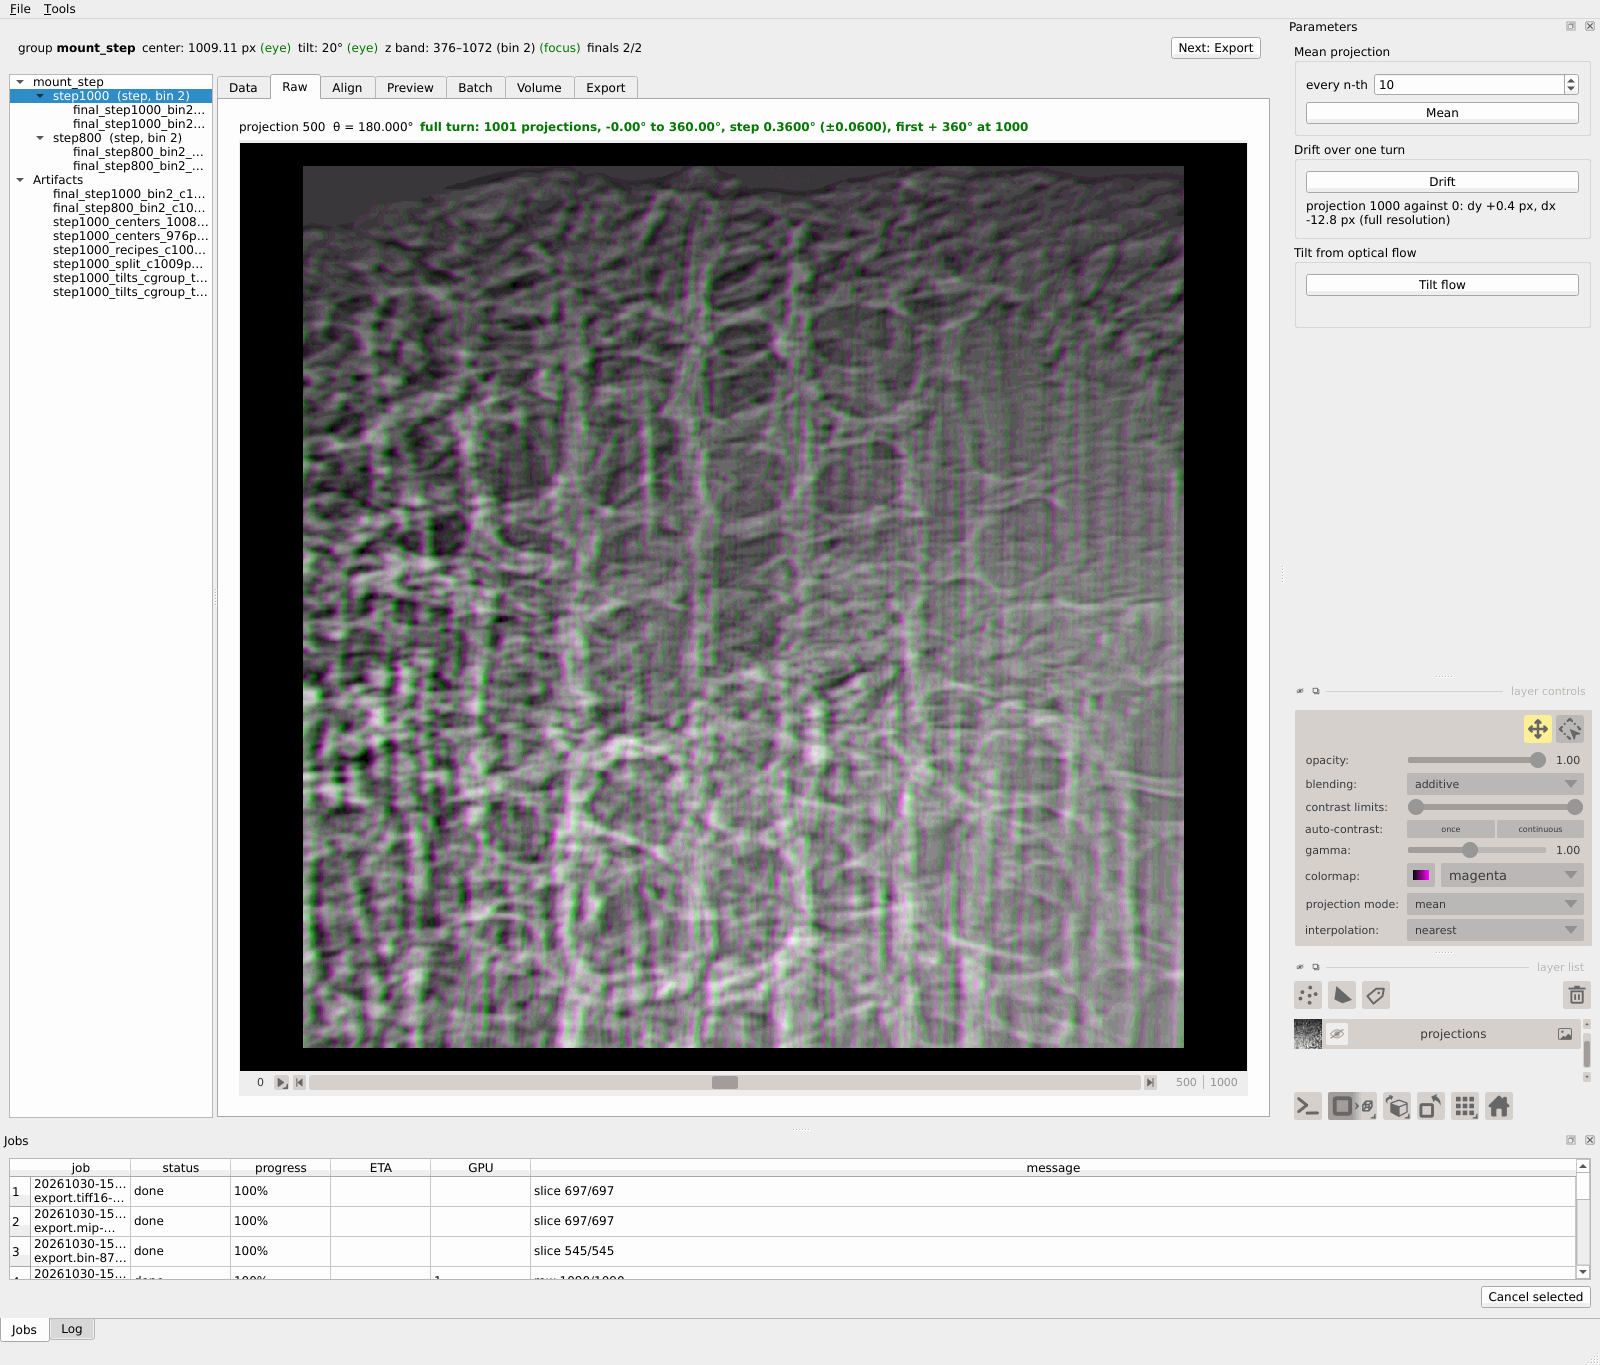
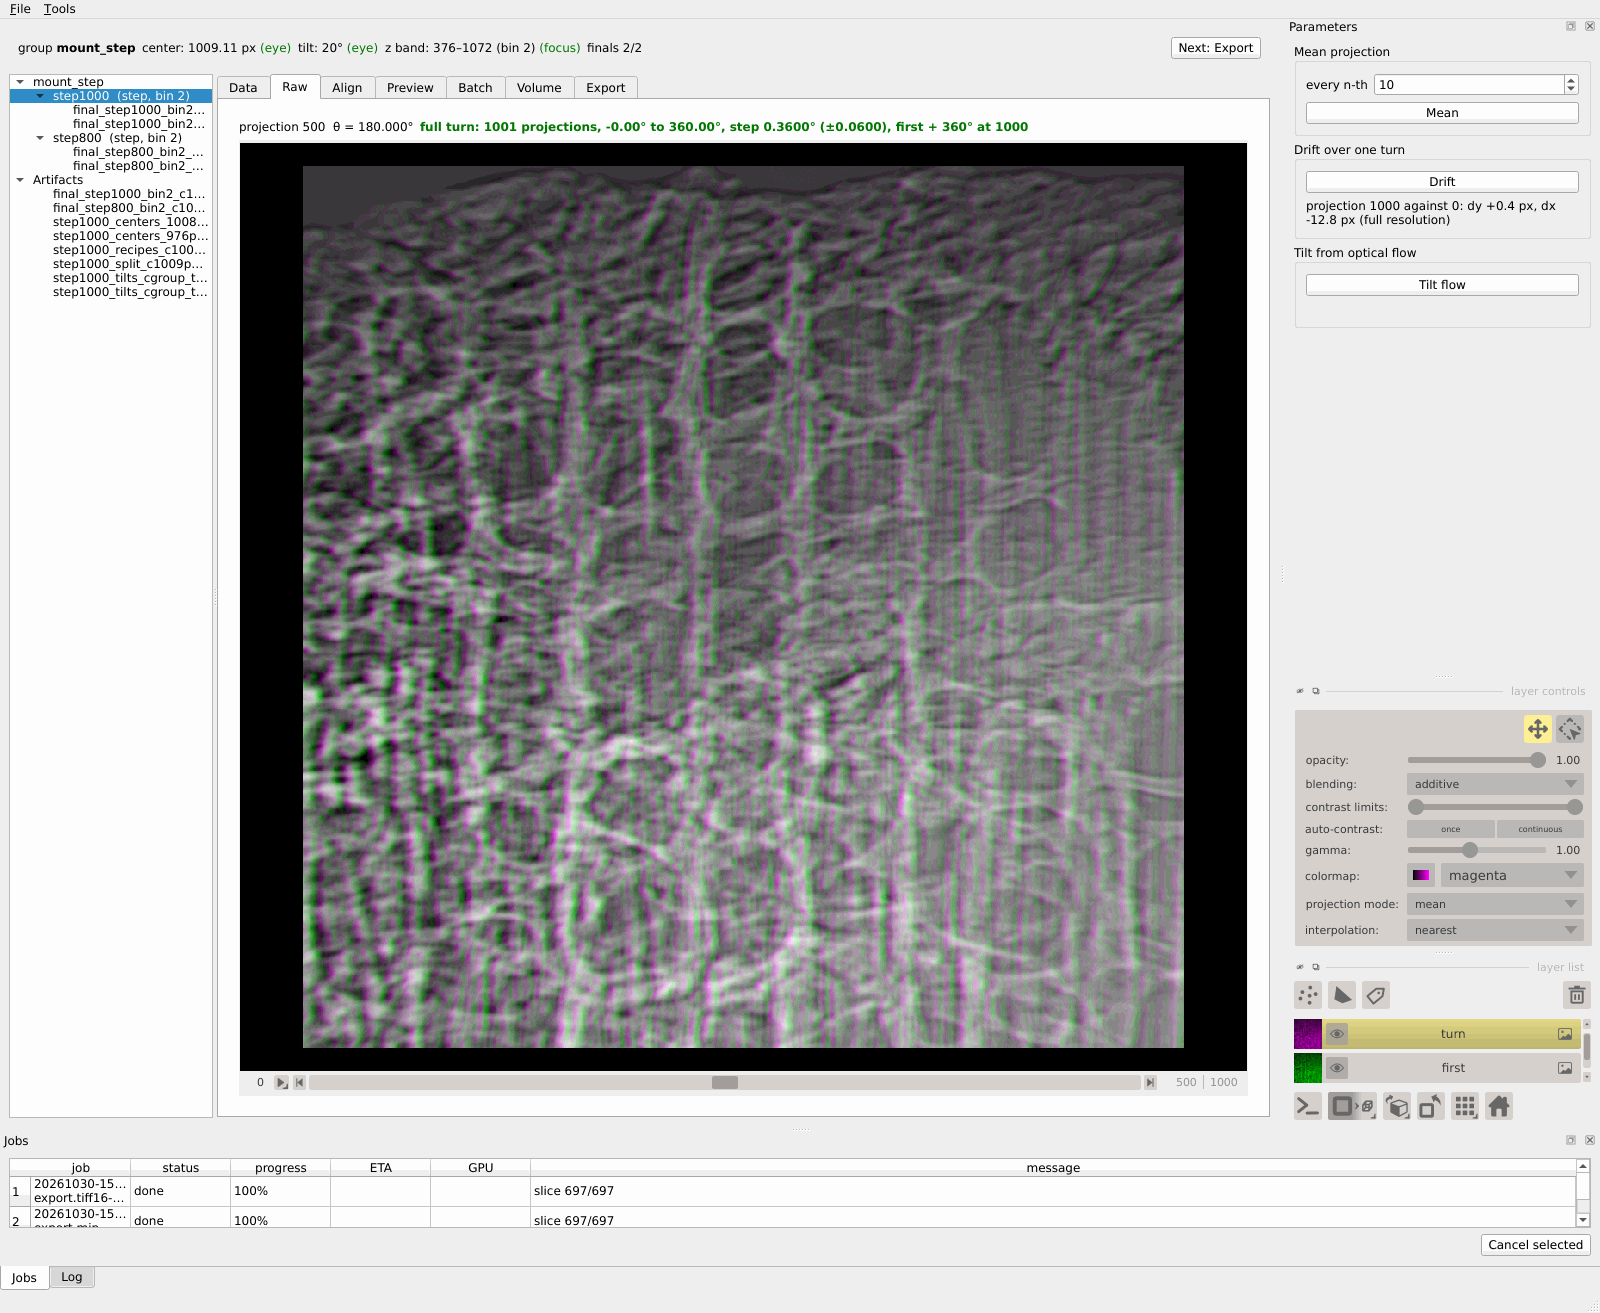
gui: draw the drift pair over an opaque first (RawTab._drift)
Both halves blended additively, so the pair was added to the projection
under it and washed out white unless that layer was hidden by hand.

diff --git a/tests/gl_render.py b/tests/gl_render.py
@@ -256,3 +256,32 @@ def test_the_volume_views_cross_is_drawn_whole_zoomed_out(app, project):
     finally:
         w.close()
         pump(app, 0.3)
+
+
+def test_the_drift_pair_is_drawn_alone_over_the_projections(app, project):
+    from types import SimpleNamespace
+
+    from lamino_pal.gui.window import MainWindow
+
+    w = MainWindow(project)
+    w.resize(1600, 1000)
+    w.setAttribute(qt.Qt.WA_DontShowOnScreen)
+    w.show()
+    w.show_tab("Raw")
+    rt = w.tabs["Raw"]
+    rt.view.replace("projections", np.ones((3, 64, 64), "f4"), contrast_limits=(0, 1), colormap="gray")
+    first = np.zeros((64, 64), "f4")
+    first[:, :32] = 1
+    rt._drift(SimpleNamespace(arrays={"first": first, "turn": np.zeros_like(first)}, first=0, turn=1, dy_px=0, dx_px=0))
+    pump(app, 0.5)
+    try:
+        img = rt.view.qt_viewer.screenshot(flash=False)[..., :3].astype(int)
+        cam = rt.view.model.camera
+        h, w_ = img.shape[:2]
+        row = round(h / 2 + (32 - cam.center[-2]) * cam.zoom)
+        at = [img[row, round(w_ / 2 + (c - cam.center[-1]) * cam.zoom)] for c in (16, 48)]
+        # Green where only the first is bright, black where neither is.
+        assert [list(p) for p in at] == [[0, 255, 0], [0, 0, 0]]
+    finally:
+        w.close()
+        pump(app, 0.3)

diff --git a/python/lamino_pal/gui/tabs/raw.py b/python/lamino_pal/gui/tabs/raw.py
@@ -109,7 +109,8 @@ class RawTab(Tab):
     def _drift(self, r: Result) -> None:
         a = r.arrays
         w = (float(min(a["first"].min(), a["turn"].min())), float(max(a["first"].max(), a["turn"].max())))
-        self.view.replace("first", a["first"], contrast_limits=w, colormap="green", blending="additive")
+        # The pair alone: added to what is under it, it would wash it out white.
+        self.view.replace("first", a["first"], contrast_limits=w, colormap="green", blending="opaque")
         self.view.replace("turn", a["turn"], contrast_limits=w, colormap="magenta", blending="additive")
         self.drift_out.setText(
             f"projection {r.turn} against {r.first}: dy {r.dy_px:+.1f} px, dx {r.dx_px:+.1f} px (full resolution)"

diff --git a/docs/manual/README.md b/docs/manual/README.md
@@ -78,10 +78,6 @@ lamino-pal-gui --project ~/work/lamino_pal_demo/project.toml
 
    ![드리프트](06-drift.png)
 
-   > 주의: 두 레이어는 additive로 겹치므로 `projections` 레이어가 보이는 채로는
-   > 화면이 하얗게 포화된다. layer list에서 `projections`의 눈을 꺼야 위
-   > 그림처럼 보인다.
-
 4. **Tilt flow**는 optical flow로 tilt를 어림한다. tilt scan의 교차 확인용이고
    결정값이 되지 않는다.
 
